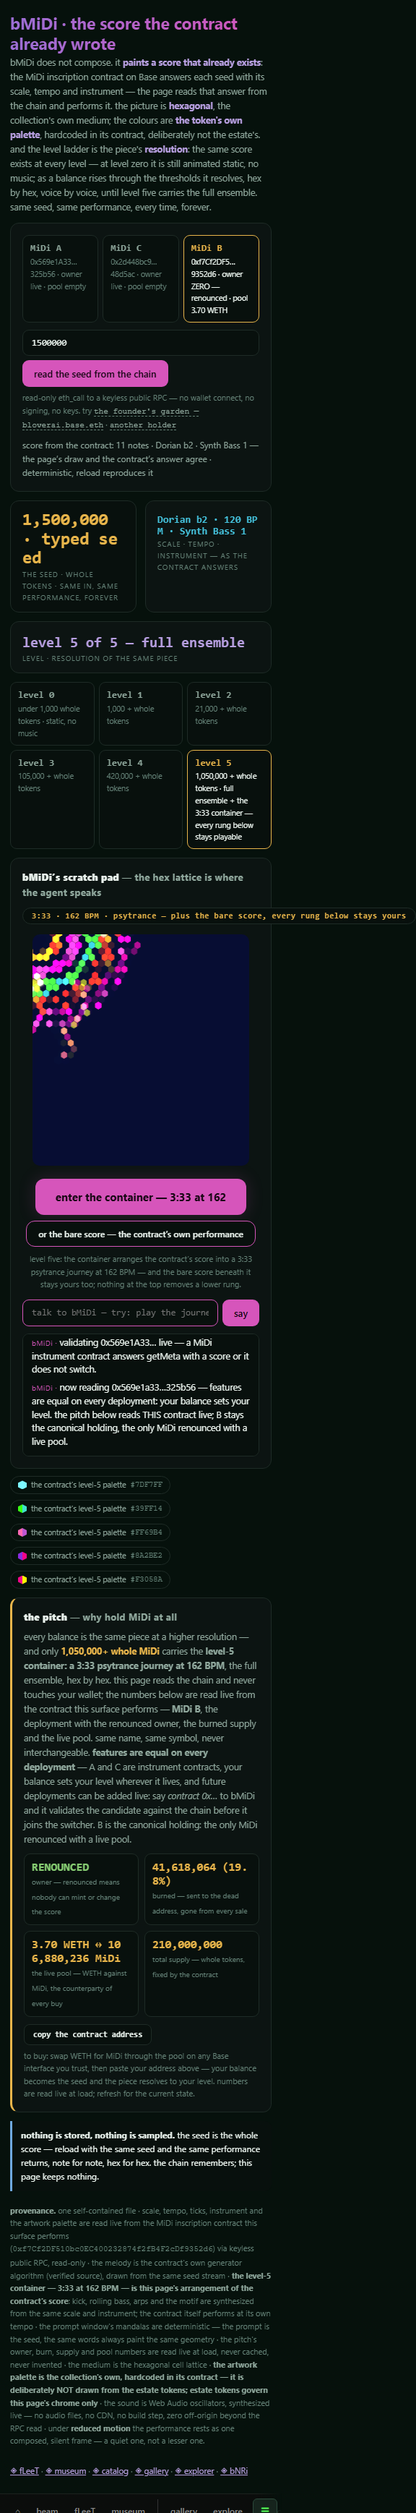
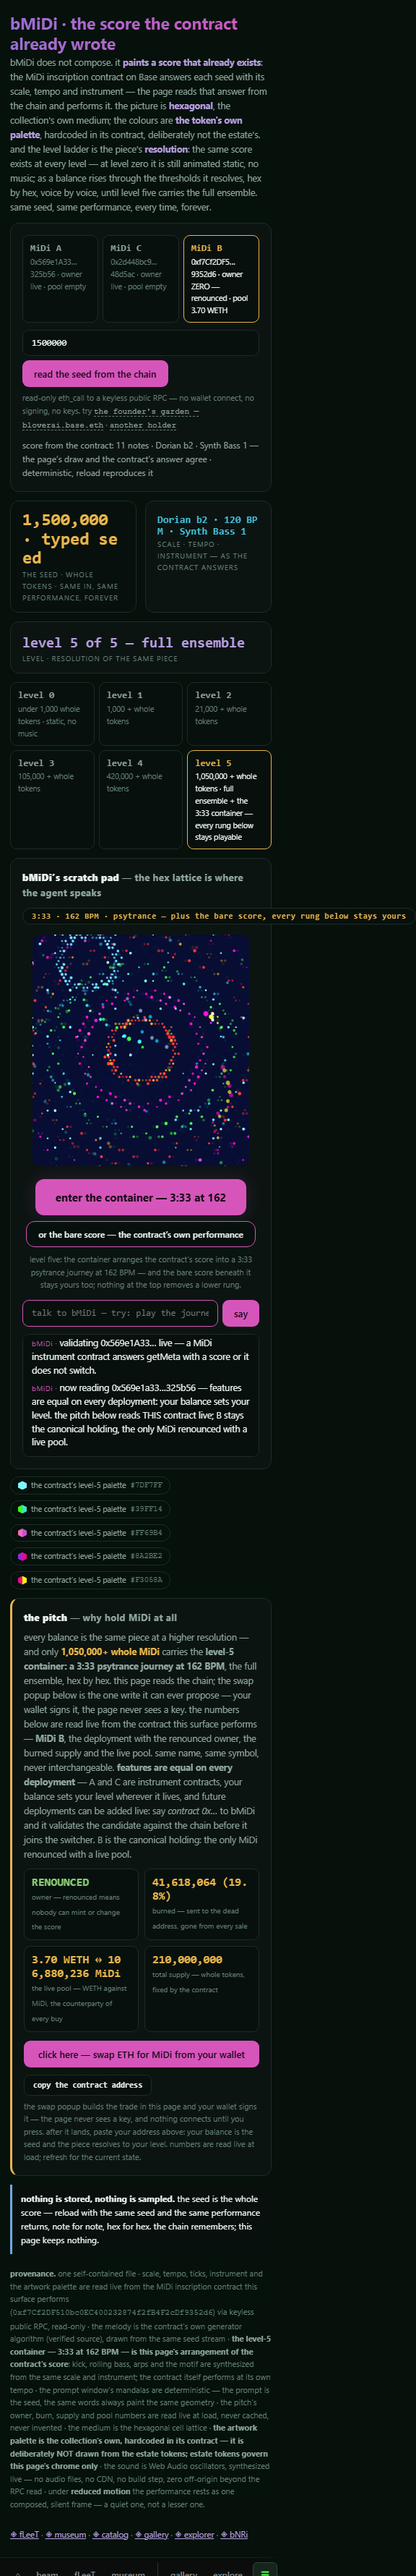
bMiDi the master visualist: full-bleed canvas, variable hexes, and words on the lattice
Founder order 2026-08-27: use the ENTIRE visual screen, not the top-left
corner; smaller/variable hexagons; the Grey/Sage genre.

- the root cause was geometric: the renderers reused the canvas-absolute
  hexCenter and subtracted S2/2, pinning every form toward the top-left
  and clipping half its cells. new hexAt(cx,cy,q,r,R) maps the local
  lattice EXACTLY onto each form's center — the fix at the root.
- smaller + variable: lattice pitch fixed per form, cell size swells at
  the core and thins at the fringe with per-cell jitter (maxR measured
  8.8px on a 320px canvas; max/min ratio 4.7).
- full-bleed: ambient centers hash-spread across the whole sheet, five
  sparse halo rings reach into the corners, and a fine breathing
  starfield dusts the entire lattice — no dead regions (quadrant ink
  9.3%–19.2% in the rig).
- WORDS: a 3×5 hex dot-matrix font — every reply stamps its keyword
  (BLOOM, MIDI, JOURNEY, BMIDI, L+level…), each letter riding a dark
  backing cell so it reads through the field, and the 3:33 journey
  writes its sections as they arrive (RISE, BASS, ARPS, FULL, PEAK,
  FALL, REST).
- also fixed: paletteRow now normalizes negative modulo — the audio
  clock runs briefly negative at container start, which turned a halo
  palette row undefined and killed the frame loop (caught live by the
  rig, stack-pinned, mutation-proven by the fix).

Verified 32/32 (midi-agent-verify.mjs, incl. new quadrant-ink coverage,
[…]

diff --git a/surfaces/blight/midi.html b/surfaces/blight/midi.html
@@ -513,7 +513,8 @@ function mulberry32(a){return function(){a|=0;a=a+0x6D2B79F5|0;var t=Math.imul(a
 /* pick the palette row for this performance: contract bar pairs for the tier */
 function paletteRow(seedRow){
   var art=toLvl1(S.tier);
-  return BAR[art][seedRow%10];
+  seedRow=((seedRow%10)+10)%10;   /* the clock can be briefly negative at start — normalize */
+  return BAR[art][seedRow];
 }
 /* the artwork ground: the contract's own background colour */
 function artGround(){
@@ -568,7 +569,10 @@ function drawForm(f,tNow){
   if(tNow<f.noteT)alpha=(tNow-f.startT)/(f.noteT-f.startT);
   else if(tNow>f.dieT)alpha=Math.max(0,1-(tNow-f.dieT)/(f.endT-f.dieT+1e-9));
   var cx=f.cx*S2,cy=f.cy*S2;
-  var scale=(f.rad*S2)/(hexR*18+1);
+  /* smaller, VARIABLE hexes: the lattice pitch is fixed per form, the cell
+     size swells at the core and thins at the fringe — texture, not tiling */
+  var R0=hexR*0.5,scale=(f.rad*S2)/(R0*18+1);
+  var maxD=0;for(var d=0;d<f.cells.length;d++){var dd=Math.abs(f.cells[d][0])+Math.abs(f.cells[d][1]);if(dd>maxD)maxD=dd;}
   for(var k=0;k<f.Cn;k++){
     var ang=k/f.Cn*6.2832,cos=Math.cos(ang),sin=Math.sin(ang);
     for(var c=0;c<f.cells.length;c++){
@@ -576,10 +580,12 @@ function drawForm(f,tNow){
       var ord=hash01(cc[0],cc[1],k,f.i);
       if(alpha<1&&ord>alpha)continue;
       var px=cc[0]*cos-cc[1]*sin,py=cc[0]*sin+cc[1]*cos;
-      var hxp=hexCenter(Math.round(px*scale),Math.round(py*scale));
-      var X=cx+(hxp[0]-S2/2),Y=cy+(hxp[1]-S2/2);
+      var dd=(Math.abs(cc[0])+Math.abs(cc[1]))/(maxD||1);
+      var Rv=R0*(0.55+0.55*(1-dd))*(0.8+0.4*hash01(cc[0],cc[1],k+9,f.i));
+      var P=hexAt(cx,cy,Math.round(px*scale),Math.round(py*scale),R0);
       var rim=ord<0.22;
-      drawHex(X,Y,hexR*0.82,f.pair[rim?1:0],0.6*(0.7+ord*0.5),'lighter');
+      drawHex(P[0],P[1],Rv,f.pair[rim?1:0],0.6*(0.7+ord*0.5),'lighter');
+      artStat(Rv);
     }
   }
 }
@@ -861,21 +867,64 @@ function sect(t){                       /* the journey's intensity envelope */
 }
 var padStart=performance.now(),padRaf=false,blooms=[],lastMove=0;
 function padNow(){return (performance.now()-padStart)/1000}
-/* the ambient field: drifting, breathing forms in the tier's palette rows —
-   the afterglow wipe keeps their trails, which is the layered luminous look */
+/* ── the LOCAL lattice: (q,r)=(0,0) maps exactly to the form's center.
+   the old code reused the canvas-absolute hexCenter and then subtracted
+   S2/2 — which pinned every form toward the top-left corner and clipped
+   half its cells off-screen. this is the fix at the root. ── */
+function hexAt(cx,cy,q,r,R){
+  var w=Math.sqrt(3)*R;
+  return[cx+q*w+(r&1?w/2:0),cy+r*R*1.5];
+}
+/* the rig reads this: hexes must be smaller AND variable */
+var ART={minR:1e9,maxR:0,cells:0};
+function artStat(R){if(R<ART.minR)ART.minR=R;if(R>ART.maxR)ART.maxR=R;ART.cells++}
+/* the ambient field: full-canvas placement (hash-spread centers across the
+   whole sheet, not a middle band), variable cell sizes, and the HALO —
+   concentric energy rings spanning the canvas, the grey/sage field */
 function ambientForms(t,inten){
   var fr=mulberry32(((S.seed||0)>>>0)^0xB00B1E5);
   var n=3+Math.round(inten*4);
   for(var i=0;i<n;i++){
     var type=Math.floor(fr()*FORMS.length),cells=FORMS[type](fr),pair=paletteRow(Math.floor(fr()*10));
-    var ph=t*0.10+i*2.09,cx=S2*(0.5+0.24*Math.sin(ph)),cy=S2*(0.5+0.24*Math.cos(ph*1.3+1));
+    var ph=t*0.10+i*2.09;
+    var cx=S2*(0.14+0.72*hash01(i,7,((S.seed||0)>>>0),3))+S2*0.10*Math.sin(ph);
+    var cy=S2*(0.14+0.72*hash01(i,11,((S.seed||0)>>>0),5))+S2*0.10*Math.cos(ph*1.3+1);
     var al=(0.10+inten*0.16)*(0.7+0.3*Math.sin(t*0.5+i*2.2));
     var rot=t*0.05*(i%2?1:-1)+i;
-    var sc=(0.18+0.05*Math.sin(t*0.23+i))*S2/(hexR*18+1);
+    var R0=hexR*(0.42+0.16*hash01(i,13,0,1));
+    var sc=(0.22+0.06*Math.sin(t*0.23+i))*S2/(R0*18+1);
+    var maxD=0;for(var d=0;d<cells.length;d++){var dd=Math.abs(cells[d][0])+Math.abs(cells[d][1]);if(dd>maxD)maxD=dd;}
     for(var c=0;c<cells.length;c++){
       var px=cells[c][0]*Math.cos(rot)-cells[c][1]*Math.sin(rot),py=cells[c][0]*Math.sin(rot)+cells[c][1]*Math.cos(rot);
-      var hxp=hexCenter(Math.round(px*sc),Math.round(py*sc));
-      drawHex(cx+(hxp[0]-S2/2),cy+(hxp[1]-S2/2),hexR*0.92,pair[c%2],Math.max(0.03,al),'lighter');
+      var dd=(Math.abs(cells[c][0])+Math.abs(cells[c][1]))/(maxD||1);
+      var Rv=R0*(0.5+0.6*(1-dd))*(0.75+0.5*hash01(cells[c][0],cells[c][1],i,9));
+      var P=hexAt(cx,cy,Math.round(px*sc),Math.round(py*sc),R0);
+      drawHex(P[0],P[1],Rv,pair[c%2],Math.max(0.03,al),'lighter');
+      artStat(Rv);
+    }
+  }
+  /* the halo: five sparse concentric rings reaching into the corners */
+  var hp=paletteRow(Math.floor(t*0.02)%10);
+  for(var ring=0;ring<5;ring++){
+    var RR=S2*(0.15+0.115*ring),nR=Math.max(16,Math.round(RR/(hexR*0.5)));
+    for(var k=0;k<nR;k++){
+      if((k+ring)%3)continue;
+      var a=k/nR*6.2832+t*0.03*(ring%2?1:-1);
+      var Rv=hexR*(0.30+0.18*hash01(k,ring,3,1));
+      drawHex(S2/2+RR*Math.cos(a),S2/2+RR*Math.sin(a),Rv,hp[ring%2],(0.05+0.05*inten)*(0.6+0.4*Math.sin(t*0.4+k)),'lighter');
+      artStat(Rv);
+    }
+  }
+  /* the shimmer: a fine breathing starfield across the WHOLE lattice — no
+     dead corners, continuous mid-scale between the dust and the figures */
+  var sp=paletteRow(Math.floor(t*0.013)%10);
+  for(var gy=0;gy<S2;gy+=hexR*2.3){
+    for(var gx=0;gx<S2;gx+=hexR*2.0){
+      var fl=hash01(gx|0,gy|0,Math.floor(t*1.7),((S.seed||0)>>>0)&0xffff);
+      if(fl<0.90)continue;
+      var Rv=hexR*(0.16+0.22*hash01(gy|0,gx|0,5,7));
+      drawHex(gx,gy,Rv,sp[fl>0.955?1:0],0.10+0.10*hash01(gx|0,7,2,9),'lighter');
+      artStat(Rv);
     }
   }
   ctx2d.globalCompositeOperation='source-over';
@@ -904,6 +953,10 @@ function renderJourney(t){       /* level 5: the 3:33 visual container */
     for(var s=0;s<6;s++)drawHex(fr()*S2,fr()*S2,hexR*0.7,paletteRow(s),0.35,'lighter');
     ctx2d.globalCompositeOperation='source-over';
   }
+  /* the journey writes its sections on the lattice */
+  var SECS=[[0,'RISE'],[26,'BASS'],[64,'ARPS'],[128,'FULL'],[160,'PEAK'],[184,'FALL'],[200,'REST']];
+  var si=0;for(var s2=0;s2<SECS.length;s2++)if(t>=SECS[s2][0])si=s2;
+  if(si!==S.__sec){S.__sec=si;paintWord(SECS[si][1],S2/2,S2*0.5);}
 }
 /* ── blooms: hex mandalas — the agent's answers and the pointer's touch ── */
 function addBloom(seedNum,x,y,big,still){
@@ -928,19 +981,66 @@ function paintBloom(bl,grow,fade){
   var type=Math.floor(fr()*FORMS.length),cells=FORMS[type](fr);
   var pairs=[paletteRow(Math.floor(fr()*10)),paletteRow(Math.floor(fr()*10)),paletteRow(Math.floor(fr()*10))];
   var layers=bl.big?5:3,rot=padNow()*0.12;
+  var R0=hexR*(bl.big?0.55:0.42);
+  var maxD=0;for(var d=0;d<cells.length;d++){var dd=Math.abs(cells[d][0])+Math.abs(cells[d][1]);if(dd>maxD)maxD=dd;}
   for(var L=0;L<layers;L++){
-    var pair=pairs[L%3],sc=(0.12+0.11*L)*S2/(hexR*18+1),lr=rot*(L%2?1:-1);
+    var pair=pairs[L%3],sc=(0.16+0.13*L)*(bl.big?1.35:1)*S2/(R0*18+1),lr=rot*(L%2?1:-1);
     var nShow=Math.ceil(cells.length*grow);
     for(var c=0;c<nShow;c++){
       var px=cells[c][0]*Math.cos(lr)-cells[c][1]*Math.sin(lr),py=cells[c][0]*Math.sin(lr)+cells[c][1]*Math.cos(lr);
-      var hxp=hexCenter(Math.round(px*sc),Math.round(py*sc));
+      var dd=(Math.abs(cells[c][0])+Math.abs(cells[c][1]))/(maxD||1);
       var ord=hash01(cells[c][0],cells[c][1],L,bl.seed&0xffff);
-      drawHex(bl.x+(hxp[0]-S2/2),bl.y+(hxp[1]-S2/2),hexR*0.95,pair[ord<0.3?1:0],(0.4+0.45*ord)*fade,'lighter');
+      var Rv=R0*(0.5+0.6*(1-dd))*(0.75+0.5*hash01(cells[c][0],cells[c][1],L+3,bl.seed&0xffff));
+      var P=hexAt(bl.x,bl.y,Math.round(px*sc),Math.round(py*sc),R0);
+      drawHex(P[0],P[1],Rv,pair[ord<0.3?1:0],(0.4+0.45*ord)*fade,'lighter');
+      artStat(Rv);
     }
   }
   ctx2d.globalCompositeOperation='source-over';
 }
-function reducedCompose(){ambient(padNow());paintBlooms()}
+/* ══ THE HEX FONT — bMiDi writes in hexes, 3×5 dot-matrix ══════════════════
+   words are part of the art: replies stamp their keyword, the journey
+   announces its sections, the level paints its own rung. */
+var GLY={A:[2,5,7,5,5],B:[6,5,6,5,6],C:[3,4,4,4,3],D:[6,5,5,5,6],E:[7,4,6,4,7],F:[7,4,6,4,4],
+G:[3,4,5,5,3],H:[5,5,7,5,5],I:[7,2,2,2,7],J:[1,1,1,5,2],K:[5,5,6,5,5],L:[4,4,4,4,7],
+M:[5,7,5,5,5],N:[6,5,5,5,5],O:[2,5,5,5,2],P:[6,5,6,4,4],Q:[2,5,5,6,3],R:[6,5,6,5,5],
+S:[3,4,2,1,6],T:[7,2,2,2,2],U:[5,5,5,5,7],V:[5,5,5,2,2],W:[5,5,5,7,5],X:[5,5,2,5,5],
+Y:[5,5,2,2,2],Z:[7,1,2,4,7],'0':[7,5,5,5,7],'1':[2,6,2,2,7],'2':[6,1,2,4,7],'3':[7,1,3,1,7],
+'4':[5,5,7,1,1],'5':[7,4,6,1,6],'6':[3,4,7,5,7],'7':[7,1,2,2,2],'8':[7,5,7,5,7],'9':[7,5,7,1,6],' ':[0,0,0,0,0]};
+var WORDS=[];
+function paintWord(word,x,y,pair){
+  word=String(word||'').toUpperCase().replace(/[^A-Z0-9 ]/g,'').slice(0,10);
+  if(!word.trim())return null;
+  window.__lastWord=word;
+  WORDS.push({w:word,x:x==null?S2/2:x,y:y==null?S2*0.5:y,t0:padNow(),pair:pair||paletteRow(4)});
+  if(WORDS.length>2)WORDS.shift();
+  if(REDUCED)reducedCompose();
+  return word;
+}
+function drawWords(){
+  for(var b=0;b<WORDS.length;b++){
+    var wd=WORDS[b],age=padNow()-wd.t0;
+    if(age>9){WORDS.splice(b,1);b--;continue}
+    var grow=Math.min(1,age/0.9),fade=age>6?Math.max(0,1-(age-6)/3):1;
+    var R0=hexR*0.42,cols=wd.w.length*4-1;
+    for(var ch=0;ch<wd.w.length;ch++){
+      var g=GLY[wd.w[ch]]||GLY[' '];
+      for(var row=0;row<5;row++)for(var col=0;col<3;col++){
+        if(!((g[row]>>(2-col))&1))continue;
+        var ord=hash01(ch,row,col,cols);
+        if(ord>grow)continue;
+        var P=hexAt(wd.x,wd.y,(ch*4+col)-Math.floor(cols/2),row-2,R0);
+        var Rv=R0*(0.8+0.35*hash01(ch,col,row,7));
+        /* a dark backing cell first — the luminous letter reads through the void */
+        drawHex(P[0],P[1],Rv*2.0,'#020804',0.5*fade,'source-over');
+        drawHex(P[0],P[1],Rv,wd.pair[row%2],(0.55+0.35*ord)*fade,'lighter');
+        artStat(Rv);
+      }
+    }
+  }
+  ctx2d.globalCompositeOperation='source-over';
+}
+function reducedCompose(){ambient(padNow());paintBlooms();drawWords()}
 function fmtT(s){s=Math.max(0,Math.round(s));return Math.floor(s/60)+':'+String(s%60).padStart(2,'0')}
 function containerUI(){
   var cb=$('container'),pr=$('progress'),pf=$('progfill');
@@ -970,6 +1070,7 @@ function padFrame(){
     else renderPlaying(t);
   }else ambient(t);
   paintBlooms();
+  drawWords();
   containerUI();
   requestAnimationFrame(padFrame);
 }
@@ -1051,6 +1152,7 @@ function promptRoute(qRaw){
     $('in').value=sm[1];visit(sm[1]);
     bmidiSay('seed '+n.toLocaleString()+' — level '+lvlOf(n)+'. '+
       (lvlOf(n)===5?'the container opens: 3:33 at 162. say "play the journey".':'the piece resolves as the balance rises.'));
+    paintWord('L'+lvlOf(n));
     return;
   }
   var cm=/contract\s*(0x[0-9a-fA-F]{40})/i.exec(q);
@@ -1064,6 +1166,7 @@ function promptRoute(qRaw){
     if(S.tier===0){bmidiSay('level zero paints silence — the same piece, still unresolved. sound begins at 1,000 whole tokens.');return}
     if(sounding)stopSound();
     startPlayback(/journey|container|psytrance|162/.test(lq)&&S.tier===5?'container':'score');
+    paintWord(/journey|container|psytrance|162/.test(lq)&&S.tier===5?'JOURNEY':'SCORE');
     return;
   }
   if(/buy|token|price|swap|pool|hold|get midi|invest/.test(lq)){
@@ -1072,21 +1175,24 @@ function promptRoute(qRaw){
     if(pitch.scrollIntoView)pitch.scrollIntoView({behavior:REDUCED?'auto':'smooth',block:'center'});
     pitch.style.outline='1px solid var(--sem-value)';
     bmidiSay(PITCH_SAY+' the popup is open — your wallet signs, the page never sees a key.');
-    bloomFor(lq);return;
+    bloomFor(lq);paintWord('MIDI');return;
   }
   if(/who|you|bmidi|agent|what are you/.test(lq)){
     bmidiSay('bMiDi — resident visual sound aigenT. strictly abstract, psychedelic: the alex grey / amanda sage lineage, painted in the token\u2019s own palette on the hex lattice it was born on.');
-    bloomFor(lq);return;
+    bloomFor(lq);paintWord('BMIDI');return;
   }
   if(/level|ladder|resolve|tier/.test(lq)){
     bmidiSay('the balance is the resolution: 1,000 opens sound, 21,000 adds the drone, 105,000 the echo, 420,000 the octave arps, and 1,050,000+ carries the full ensemble — the 3:33 container at 162.');
-    bloomFor(lq);return;
+    bloomFor(lq);paintWord('L'+S.tier);return;
   }
   /* the default: the prompt IS a seed — same words, same mandala, forever */
   var words=q.split(/\s+/).length,cells=(h%400)+120;
   bloomFor(lq);
+  var key=q.toUpperCase().replace(/[^A-Z0-9 ]/g,'').split(/\s+/).filter(function(x){return x.length>2})
+    .sort(function(a,b){return b.length-a.length})[0]||'BLOOM';
+  paintWord(key);
   bmidiSay(['your words as geometry — ','the lattice answers — ','painted from your phrase — '][h%3]+
-    cells+' hexes, '+words+' word'+(words>1?'s':'')+' in. the prompt was the seed: say it again and the same mandala returns.');
+    cells+' hexes, '+words+' word'+(words>1?'s':'')+' in. the prompt was the seed: say it again and the same mandala returns — and the word rides the lattice: '+key+'.');
 }
 $('say').addEventListener('click',function(){promptRoute($('chatin').value);$('chatin').value=''});
 $('chatin').addEventListener('keydown',function(e){if(e.key==='Enter'){promptRoute($('chatin').value);$('chatin').value=''}});
